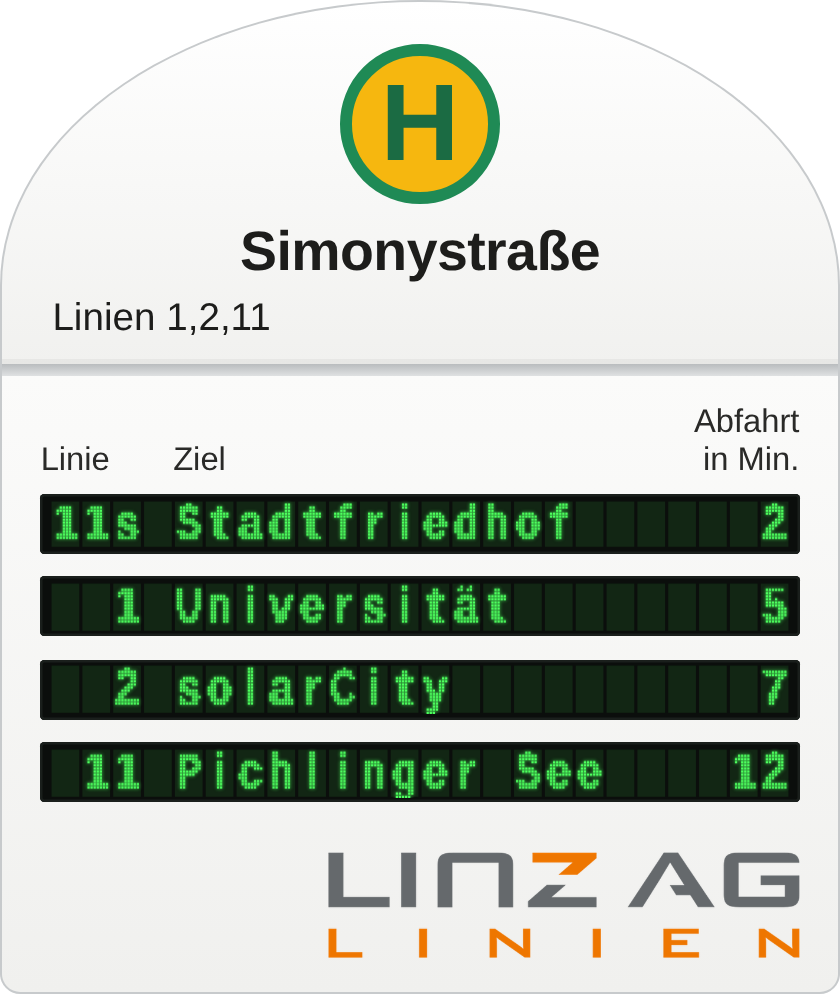
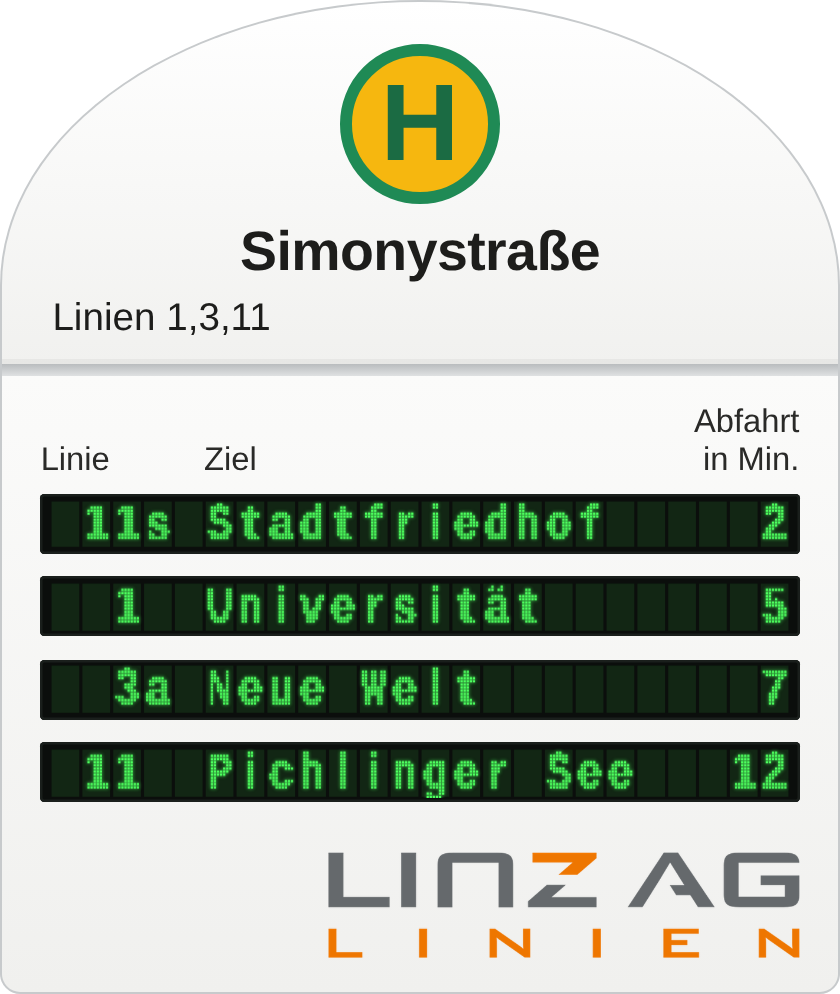
Haltestellen-Säule: 24-Felder-Aufteilung wie am Original + Laufschrift
- Feld 1-3 Liniennummer (rechtsbündig), Feld 4 Zusatz (a, *, s, b …), Feld 5 leer
- Feld 6-20 Ziel bzw. Sonderinformation, Feld 21-24 Abfahrtsminuten (rechtsbündig)
- zu lange Ziele/Infos laufen Feld für Feld nach links (Pause am Anfang und Ende)
- Zusatzinfos (z.B. "Verspätung bitte Geduld") und "Fällt aus" wechseln sich mit dem Ziel ab
- eigener Takt für Laufschrift/Blinken, nur geänderte Zeilen werden neu gezeichnet
- Spaltenkopf "Ziel" über Feld 6, Vorschaubild + README aktualisiert

Claude-Session: https://claude.ai/code/session_01UGasuBwGSLjhjSTvDMnsjH

diff --git a/custom_components/linz_ag_monitor/frontend/linz-linien-combined.js b/custom_components/linz_ag_monitor/frontend/linz-linien-combined.js
@@ -183,7 +183,7 @@ class LinzMonitorIrmscherEditorV11 extends HTMLElement {
           <label>🖼 Bild unten rechts (URL, leer = Linz AG Linien Logo)</label>
           <input id="stele_footer_image" class="std-input" type="text" value="${this._config.stele_footer_image || ''}" placeholder="https://… oder /local/…">
         </div>
-        <div class="hint-text">Tipp: „Anzahl der Zeilen“ auf 3 oder 4 stellen – wie an der echten Haltestelle. Jede Zeile hat 24 Zeichen.</div>
+        <div class="hint-text">Tipp: „Anzahl der Zeilen“ auf 3 oder 4 stellen – wie an der echten Haltestelle. Jede Zeile hat 24 Felder: Linie (1-3), Zusatz (4), Ziel/Info (6-20), Minuten (21-24).</div>
        `;
     }
 
@@ -340,6 +340,7 @@ class LinzMonitorCombined extends HTMLElement {
   disconnectedCallback() {
     if (this._clockTimer) clearInterval(this._clockTimer);
     if (this._steleRO) { this._steleRO.disconnect(); this._steleRO = null; }
+    if (this._steleTimer) { clearInterval(this._steleTimer); this._steleTimer = null; }
     this._animTimers.forEach(t => clearTimeout(t));
     this._animTimers.clear();
   }
@@ -454,10 +455,6 @@ class LinzMonitorCombined extends HTMLElement {
   }
 
   _updateClockDisplay() {
-    if (this._currentLayout === "stele" && this._steleRows && this._steleRows.some(r => r.blink)) {
-      this._steleBlinkPhase = !this._steleBlinkPhase;
-      this._drawSteleRows(this._steleBlinkPhase);
-    }
     const clock = this.querySelector("#clock");
     if (!clock) return;
     const now = new Date();
@@ -1239,7 +1236,7 @@ class LinzMonitorCombined extends HTMLElement {
 
     if (!this.querySelector("ha-card") || this._currentLayout !== 'stele') {
       this._currentLayout = 'stele';
-      this._steleKey = null;
+      this._steleDrawn = [];
       this.innerHTML = `
         <style>
           ha-card.st-card {
@@ -1276,7 +1273,7 @@ class LinzMonitorCombined extends HTMLElement {
             padding: 3.4cqw 4.6cqw 4cqw;
           }
           /* Spaltenköpfe exakt über dem 24-Zeichen-Raster: "Ziel" beginnt bei Zeichen 5 */
-          .st-labels { display: grid; grid-template-columns: calc(1.2% + 97.6% * 4 / 24) 1fr auto; align-items: end; font-size: 3.9cqw; line-height: 1.15; margin-bottom: 1.8cqw; color: #2a2a28; }
+          .st-labels { display: grid; grid-template-columns: calc(1.2% + 97.6% * 5 / 24) 1fr auto; align-items: end; font-size: 3.9cqw; line-height: 1.15; margin-bottom: 1.8cqw; color: #2a2a28; }
           .st-labels .lab-time { text-align: right; }
 
           .st-rows { display: flex; flex-direction: column; gap: 2.8cqw; }
@@ -1333,114 +1330,181 @@ class LinzMonitorCombined extends HTMLElement {
     const linesEl = this.querySelector("#st-lines");
     if (linesEl.textContent !== linesText) linesEl.textContent = linesText;
 
-    // Zeilen als 24-Zeichen-Text aufbauen (bereits abgefahrene Fahrten zeigt die echte Anzeige nicht)
+    // Zeilen aufbauen – 24 Felder:
+    //   1-3 Liniennummer (rechtsbündig) | 4 Zusatz (a, *, s, b …) | 5 leer
+    //   6-20 Ziel bzw. Sonderinformation (15 Felder, läuft Feld für Feld, wenn zu lang)
+    //   21-24 Abfahrtsminuten (rechtsbündig)
+    // Bereits abgefahrene Fahrten zeigt die echte Anzeige nicht.
     const count = Math.max(1, Number(this._config.anzahl) || 4);
     const visible = departures.filter(d => !d.isGone).slice(0, count);
     const rows = [];
     for (let i = 0; i < count; i++) {
       const d = visible[i];
-      if (!d) { rows.push({ text: "", blink: null }); continue; }
+      if (!d) { rows.push({ id: `leer-${i}`, prefix: "", segments: [""], min: "", blink: false }); continue; }
       const infoLow = (d.infos || "").toLowerCase();
       const isCancelled = d.canceled || d.cancelled || infoLow.includes("fällt aus") || infoLow.includes("entfällt");
       const isNow = d.countdown === 0 && !isCancelled;
+
+      // Liniennummer + Zusatzbezeichnung trennen ("11s" -> "11" + "s", "27*" -> "27" + "*", "N82" bleibt)
+      const name = String(this._getRouteName(d) || "");
+      const m = /^(.{1,3}?)([a-zA-Z*])$/.exec(name);
+      const base = (m && /\d/.test(m[1])) ? m[1] : name.slice(0, 3);
+      const suffix = (m && /\d/.test(m[1])) ? m[2] : "";
+      const prefix = base.padStart(3) + (suffix || " ") + " ";
+
       let minTxt;
       if (isCancelled) minTxt = "--";
       else if (isNow) minTxt = "0";
-      else if (this._config.time_format === "absolute" || d.countdown >= 100) minTxt = String(d.scheduled || "");
+      else if (this._config.time_format === "absolute" || d.countdown >= 1000) minTxt = String(d.scheduled || "");
       else minTxt = String(d.countdown);
-      const minW = Math.max(3, minTxt.length);
-      const destW = STELE_COLS - 4 - 1 - minW;          // Linie(3) + Leer + Ziel + Leer + Minuten
-      const line = String(this._getRouteName(d)).slice(0, 3).padStart(3);
-      const dest = String(isCancelled ? "Fällt aus" : (d.direction || "")).slice(0, destW).padEnd(destW);
-      const text = `${line} ${dest} ${minTxt.padStart(minW)}`;
-      rows.push({ text, blink: isNow ? [STELE_COLS - 1, STELE_COLS] : null });
+
+      // Ziel + Sonderinformationen wechseln sich im Zielfeld ab
+      const segments = [String(d.direction || "")];
+      if (isCancelled) segments.push("Fällt aus");
+      const info = String(d.infos || "").replace(/Niederflurfahrzeug/gi, "").replace(/\s+/g, " ").replace(/^[\s+]+|[\s+]+$/g, "");
+      if (!isCancelled && info.length > 2) segments.push(info);
+
+      rows.push({
+        id: `${name}|${d.direction}|${d.scheduled}`,
+        prefix, segments, min: minTxt, blink: isNow,
+      });
     }
 
     const rowsEl = this.querySelector("#st-rows");
     if (rowsEl.children.length !== count) {
       rowsEl.innerHTML = Array.from({ length: count }, () => `<div class="st-row"><canvas></canvas></div>`).join("");
-      this._steleKey = null;
       if (!this._steleRO && window.ResizeObserver) {
-        this._steleRO = new ResizeObserver(() => { this._steleKey = null; this._drawSteleRows(); });
+        this._steleRO = new ResizeObserver(() => { this._steleDrawn = []; this._steleTick(); });
       }
       if (this._steleRO) { this._steleRO.disconnect(); this._steleRO.observe(rowsEl); }
     }
+    this._steleDrawn = this._steleDrawn || [];
+    this._steleAnim = this._steleAnim || new Map();
+    // Laufschrift-Zustand nur für noch sichtbare Fahrten behalten
+    const ids = new Set(rows.map(r => r.id));
+    for (const k of this._steleAnim.keys()) if (!ids.has(k)) this._steleAnim.delete(k);
     this._steleRows = rows;
-    this._drawSteleRows();
+
+    if (!this._steleTimer) this._steleTimer = setInterval(() => this._steleTick(), 100);
+    this._steleTick();
   }
 
-  /* LED-Matrix selbst zeichnen: 24 Zeichenfelder, je 8 x 14 leuchtende Punkte ("doppelte" Auflösung) */
-  _drawSteleRows(blinkPhase) {
-    const rowsEl = this.querySelector("#st-rows");
-    if (!rowsEl || !this._steleRows) return;
-    const phase = blinkPhase ?? this._steleBlinkPhase ?? true;
-    const LED = this._config.stele_led_color || "#4dff5e";
-    const key = JSON.stringify([this._steleRows, phase, LED, rowsEl.clientWidth]);
-    if (key === this._steleKey) return;
-    this._steleKey = key;
+  /* Zielfeld-Text zum Zeitpunkt "now": kurze Texte stehen, lange laufen Feld für Feld nach links */
+  _steleField(row, width, now) {
+    const HOLD_START = 2000, HOLD_END = 1500, STEP = 330, SHOW_SHORT = 6000;
+    let st = this._steleAnim.get(row.id);
+    if (!st || st.segCount !== row.segments.length) {
+      st = { seg: 0, off: 0, phase: "start", until: now + HOLD_START, segCount: row.segments.length };
+      this._steleAnim.set(row.id, st);
+    }
+    let guard = 0;
+    while (now >= st.until && guard++ < 200) {
+      const text = row.segments[st.seg] || "";
+      const overflow = text.length - width;
+      if (overflow <= 0) {
+        // passt: eine Weile stehen lassen, dann ggf. zur nächsten Information
+        if (row.segments.length === 1) { st.until = now + 1e9; break; }
+        st.seg = (st.seg + 1) % row.segments.length; st.off = 0; st.phase = "start";
+        st.until += (row.segments[st.seg].length > width) ? HOLD_START : SHOW_SHORT;
+      } else if (st.phase === "start") {
+        st.phase = "scroll"; st.until += STEP;
+      } else if (st.phase === "scroll") {
+        st.off++;
+        if (st.off >= overflow) { st.phase = "end"; st.until += HOLD_END; }
+        else st.until += STEP;
+      } else {
+        st.seg = (st.seg + 1) % row.segments.length; st.off = 0; st.phase = "start";
+        st.until += (row.segments[st.seg].length > width) ? HOLD_START : SHOW_SHORT;
+      }
+    }
+    const text = row.segments[st.seg] || "";
+    return text.slice(st.off, st.off + width).padEnd(width);
+  }
 
+  /* Takt für Laufschrift und Blinken – zeichnet nur Zeilen neu, die sich geändert haben */
+  _steleTick() {
+    if (this._currentLayout !== "stele" || !this._steleRows) {
+      if (this._steleTimer) { clearInterval(this._steleTimer); this._steleTimer = null; }
+      return;
+    }
+    const rowsEl = this.querySelector("#st-rows");
+    if (!rowsEl) return;
+    const now = Date.now();
+    const blinkOn = Math.floor(now / 500) % 2 === 0;
+    const LED = this._config.stele_led_color || "#4dff5e";
+    const canvases = rowsEl.querySelectorAll("canvas");
+    this._steleRows.forEach((row, r) => {
+      let text = "";
+      if (row.prefix) {
+        const minW = Math.max(4, row.min.length);           // Felder 21-24 (Uhrzeit "21:15" nimmt Feld 20 dazu)
+        const fieldW = STELE_COLS - 5 - minW;               // normal 15 Felder (6-20)
+        const min = (row.blink && !blinkOn) ? "" : row.min;
+        text = row.prefix + this._steleField(row, fieldW, now) + min.padStart(minW);
+      }
+      const key = text + "|" + LED;
+      if (this._steleDrawn[r] !== key && canvases[r]) {
+        this._steleDrawn[r] = key;
+        this._drawSteleRow(canvases[r], text, LED);
+      }
+    });
+  }
+
+  /* Eine LED-Zeile zeichnen: 24 Zeichenfelder, je 8 x 14 leuchtende Punkte ("doppelte" Auflösung) */
+  _drawSteleRow(cv, text, LED) {
     const PX = STELE_CELL_W, PY = STELE_CELL_H, W = STELE_COLS * PX, H = PY;
-    // Text zuerst klein rastern (1 Pixel = 1 LED-Punkt)
     if (!this._steleRaster) {
       this._steleRaster = document.createElement("canvas");
       this._steleRaster.width = W; this._steleRaster.height = H;
     }
     const rc = this._steleRaster.getContext("2d", { willReadFrequently: true });
 
-    // Farbe der dunklen Zeichenfelder: LED-Farbe stark abgedunkelt
-    const cellColor = (() => {
-      const m = /^#?([0-9a-f]{6})$/i.exec(LED.trim());
-      if (!m) return "#132016";
+    const m = /^#?([0-9a-f]{6})$/i.exec(String(LED).trim());
+    let cellColor = "#132016";
+    if (m) {
       const n = parseInt(m[1], 16), mix = (c, bg) => Math.round(bg + (c - bg) * 0.10);
-      return `rgb(${mix(n >> 16 & 255, 11)},${mix(n >> 8 & 255, 14)},${mix(n & 255, 12)})`;
-    })();
+      cellColor = `rgb(${mix(n >> 16 & 255, 11)},${mix(n >> 8 & 255, 14)},${mix(n & 255, 12)})`;
+    }
 
-    const canvases = rowsEl.querySelectorAll("canvas");
-    this._steleRows.forEach((row, r) => {
-      const cv = canvases[r];
-      if (!cv) return;
-      const dpr = window.devicePixelRatio || 1;
-      const cssW = cv.clientWidth || 300;
-      const cw = Math.max(W, Math.round(cssW * dpr)), ch = Math.round(cw * H / W);
-      if (cv.width !== cw || cv.height !== ch) { cv.width = cw; cv.height = ch; }
-      const ctx = cv.getContext("2d");
-      const dot = cw / W;
+    const dpr = window.devicePixelRatio || 1;
+    const cssW = cv.clientWidth || 300;
+    const cw = Math.max(W, Math.round(cssW * dpr)), ch = Math.round(cw * H / W);
+    if (cv.width !== cw || cv.height !== ch) { cv.width = cw; cv.height = ch; }
+    const ctx = cv.getContext("2d");
+    const dot = cw / W;
 
-      // Raster des Textes
-      rc.clearRect(0, 0, W, H);
-      rc.fillStyle = "#fff";
-      rc.font = `bold ${STELE_FONT_PX}px Arial, Helvetica, sans-serif`;
-      rc.textBaseline = "alphabetic";
-      Array.from(row.text).forEach((c, i) => {
-        if (c === " ") return;
-        if (row.blink && !phase && i >= row.blink[0] && i < row.blink[1]) return;
-        const w = Math.min(rc.measureText(c).width, STELE_GLYPH_W);
-        rc.fillText(c, i * PX + 1 + (STELE_GLYPH_W - w) / 2, STELE_BASELINE, STELE_GLYPH_W);
-      });
-      const px = rc.getImageData(0, 0, W, H).data;
-
-      // Hintergrund + dunkle Zeichenfelder (alle gleich groß)
-      ctx.fillStyle = "#0b0e0c";
-      ctx.fillRect(0, 0, cw, ch);
-      ctx.fillStyle = cellColor;
-      for (let i = 0; i < STELE_COLS; i++) {
-        ctx.fillRect((i * PX + 0.5) * dot, 0.5 * dot, (PX - 1) * dot, (PY - 1) * dot);
-      }
-
-      // leuchtende Punkte (quadratisch, mit schmaler Fuge und leichtem Leuchten)
-      const gap = dot * 0.14;
-      ctx.beginPath();
-      for (let y = 0; y < H; y++) {
-        for (let x = 0; x < W; x++) {
-          if (px[(y * W + x) * 4 + 3] > STELE_THRESHOLD) ctx.rect(x * dot + gap, y * dot + gap, dot - 2 * gap, dot - 2 * gap);
-        }
-      }
-      ctx.fillStyle = LED;
-      ctx.shadowColor = LED;
-      ctx.shadowBlur = dot * 1.2;
-      ctx.fill();
-      ctx.shadowBlur = 0;
+    // Text klein rastern (1 Pixel = 1 LED-Punkt)
+    rc.clearRect(0, 0, W, H);
+    rc.fillStyle = "#fff";
+    rc.font = `bold ${STELE_FONT_PX}px Arial, Helvetica, sans-serif`;
+    rc.textBaseline = "alphabetic";
+    Array.from(text).slice(0, STELE_COLS).forEach((c, i) => {
+      if (c === " ") return;
+      const w = Math.min(rc.measureText(c).width, STELE_GLYPH_W);
+      rc.fillText(c, i * PX + 1 + (STELE_GLYPH_W - w) / 2, STELE_BASELINE, STELE_GLYPH_W);
     });
+    const px = rc.getImageData(0, 0, W, H).data;
+
+    // Hintergrund + dunkle Zeichenfelder (alle gleich groß)
+    ctx.fillStyle = "#0b0e0c";
+    ctx.fillRect(0, 0, cw, ch);
+    ctx.fillStyle = cellColor;
+    for (let i = 0; i < STELE_COLS; i++) {
+      ctx.fillRect((i * PX + 0.5) * dot, 0.5 * dot, (PX - 1) * dot, (PY - 1) * dot);
+    }
+
+    // leuchtende Punkte (quadratisch, schmale Fuge, leichtes Leuchten)
+    const gap = dot * 0.14;
+    ctx.beginPath();
+    for (let y = 0; y < H; y++) {
+      for (let x = 0; x < W; x++) {
+        if (px[(y * W + x) * 4 + 3] > STELE_THRESHOLD) ctx.rect(x * dot + gap, y * dot + gap, dot - 2 * gap, dot - 2 * gap);
+      }
+    }
+    ctx.fillStyle = LED;
+    ctx.shadowColor = LED;
+    ctx.shadowBlur = dot * 1.2;
+    ctx.fill();
+    ctx.shadowBlur = 0;
   }
 
   getCardSize() { return (this._config.anzahl || 7) + 1; }

diff --git a/README.md b/README.md
@@ -15,10 +15,10 @@ Live‑Daten der Linz AG Linien, smarte Einrichtung per Text- oder Kartensuche u
 ---
 
 ## 🆕 Neu in v1.8.1
-* **Haltestellen-Säule:** feste 24-Zeichen-Zeilen mit gleich großen Zeichenfeldern und doppelt so feinen LED-Punkten.
+* **Haltestellen-Säule:** feste 24-Felder-Zeilen wie am Original – Linie (Feld 1–3), Zusatz wie `a`, `*`, `s` (Feld 4), Ziel bzw. Sonderinformation (Feld 6–20, läuft bei Überlänge Feld für Feld durch), Abfahrtsminuten (Feld 21–24). Zusatzinfos wie „Verspätung bitte Geduld“ wechseln sich mit dem Ziel ab. Doppelt so feine LED-Punkte.
 
 ## 🆕 Neu in v1.8.0
-* **5. Design „Haltestellen-Säule“:** Originalgetreuer Nachbau der Linz AG Anzeige an der Haltestelle – H-Schild, Haltestellenname, Linien-Zeile und grüne LED-Zeilen mit fester 24-Zeichen-Matrix (feine Punkte, 8 × 14 pro Zeichen) und Linz AG Linien Logo (nur die Tafel, ohne Mast). Das Logo wird lokal aus der Integration geladen.
+* **5. Design „Haltestellen-Säule“:** Originalgetreuer Nachbau der Linz AG Anzeige an der Haltestelle – H-Schild, Haltestellenname, Linien-Zeile und grüne LED-Zeilen mit fester 24-Felder-Matrix (feine Punkte, 8 × 14 pro Zeichen, Laufschrift für lange Ziele und Zusatzinfos) und Linz AG Linien Logo (nur die Tafel, ohne Mast). Das Logo wird lokal aus der Integration geladen.
 * **Brand-Icons in korrekter Größe** (256/512 px) für eine scharfe Anzeige in HACS und Home Assistant.
 
 ## 🆕 Neu in v1.6.1
